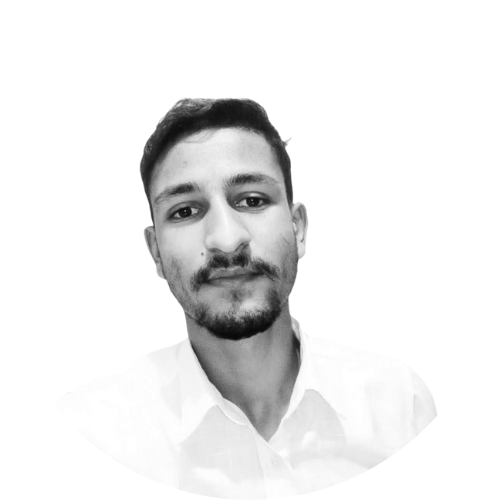
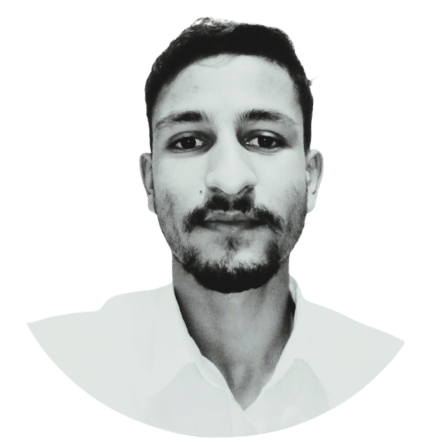
all set

diff --git a/app/components/Photo.tsx b/app/components/Photo.tsx
@@ -18,7 +18,8 @@ const Photo = () => {
             opacity: 1,
             transition: { delay: 2.4, duration: 0.4, ease: "easeInOut" },
           }}
-          className="w-[298px] h-[298px] xl:w-[498px] xl:h-498px] mix-blend-lighten absolute">
+          className="w-[298px] h-[298px] xl:w-[498px] xl:h-498px] mix-blend-lighten absolute"
+          style={{ right: "2px", left: "4px", top: "-5px", bottom: "0" }}>
           <Image
             src="/assets/photo.png"
             priority
@@ -29,14 +30,15 @@ const Photo = () => {
             className="object-contain"
           />
         </motion.div>
+
         <motion.svg
           className="w-[300px] xl:w-[506px] h-[300px] xl:h=[506px]"
           fill="transparent"
           viewBox="0 0 506 506"
           xmlns="https://www.w3.org/2000/svg">
           <motion.circle
-            cx="253"
-            cy="253"
+            cx="252"
+            cy="252"
             r="250"
             stroke="#00ff99"
             strokeWidth="4"
